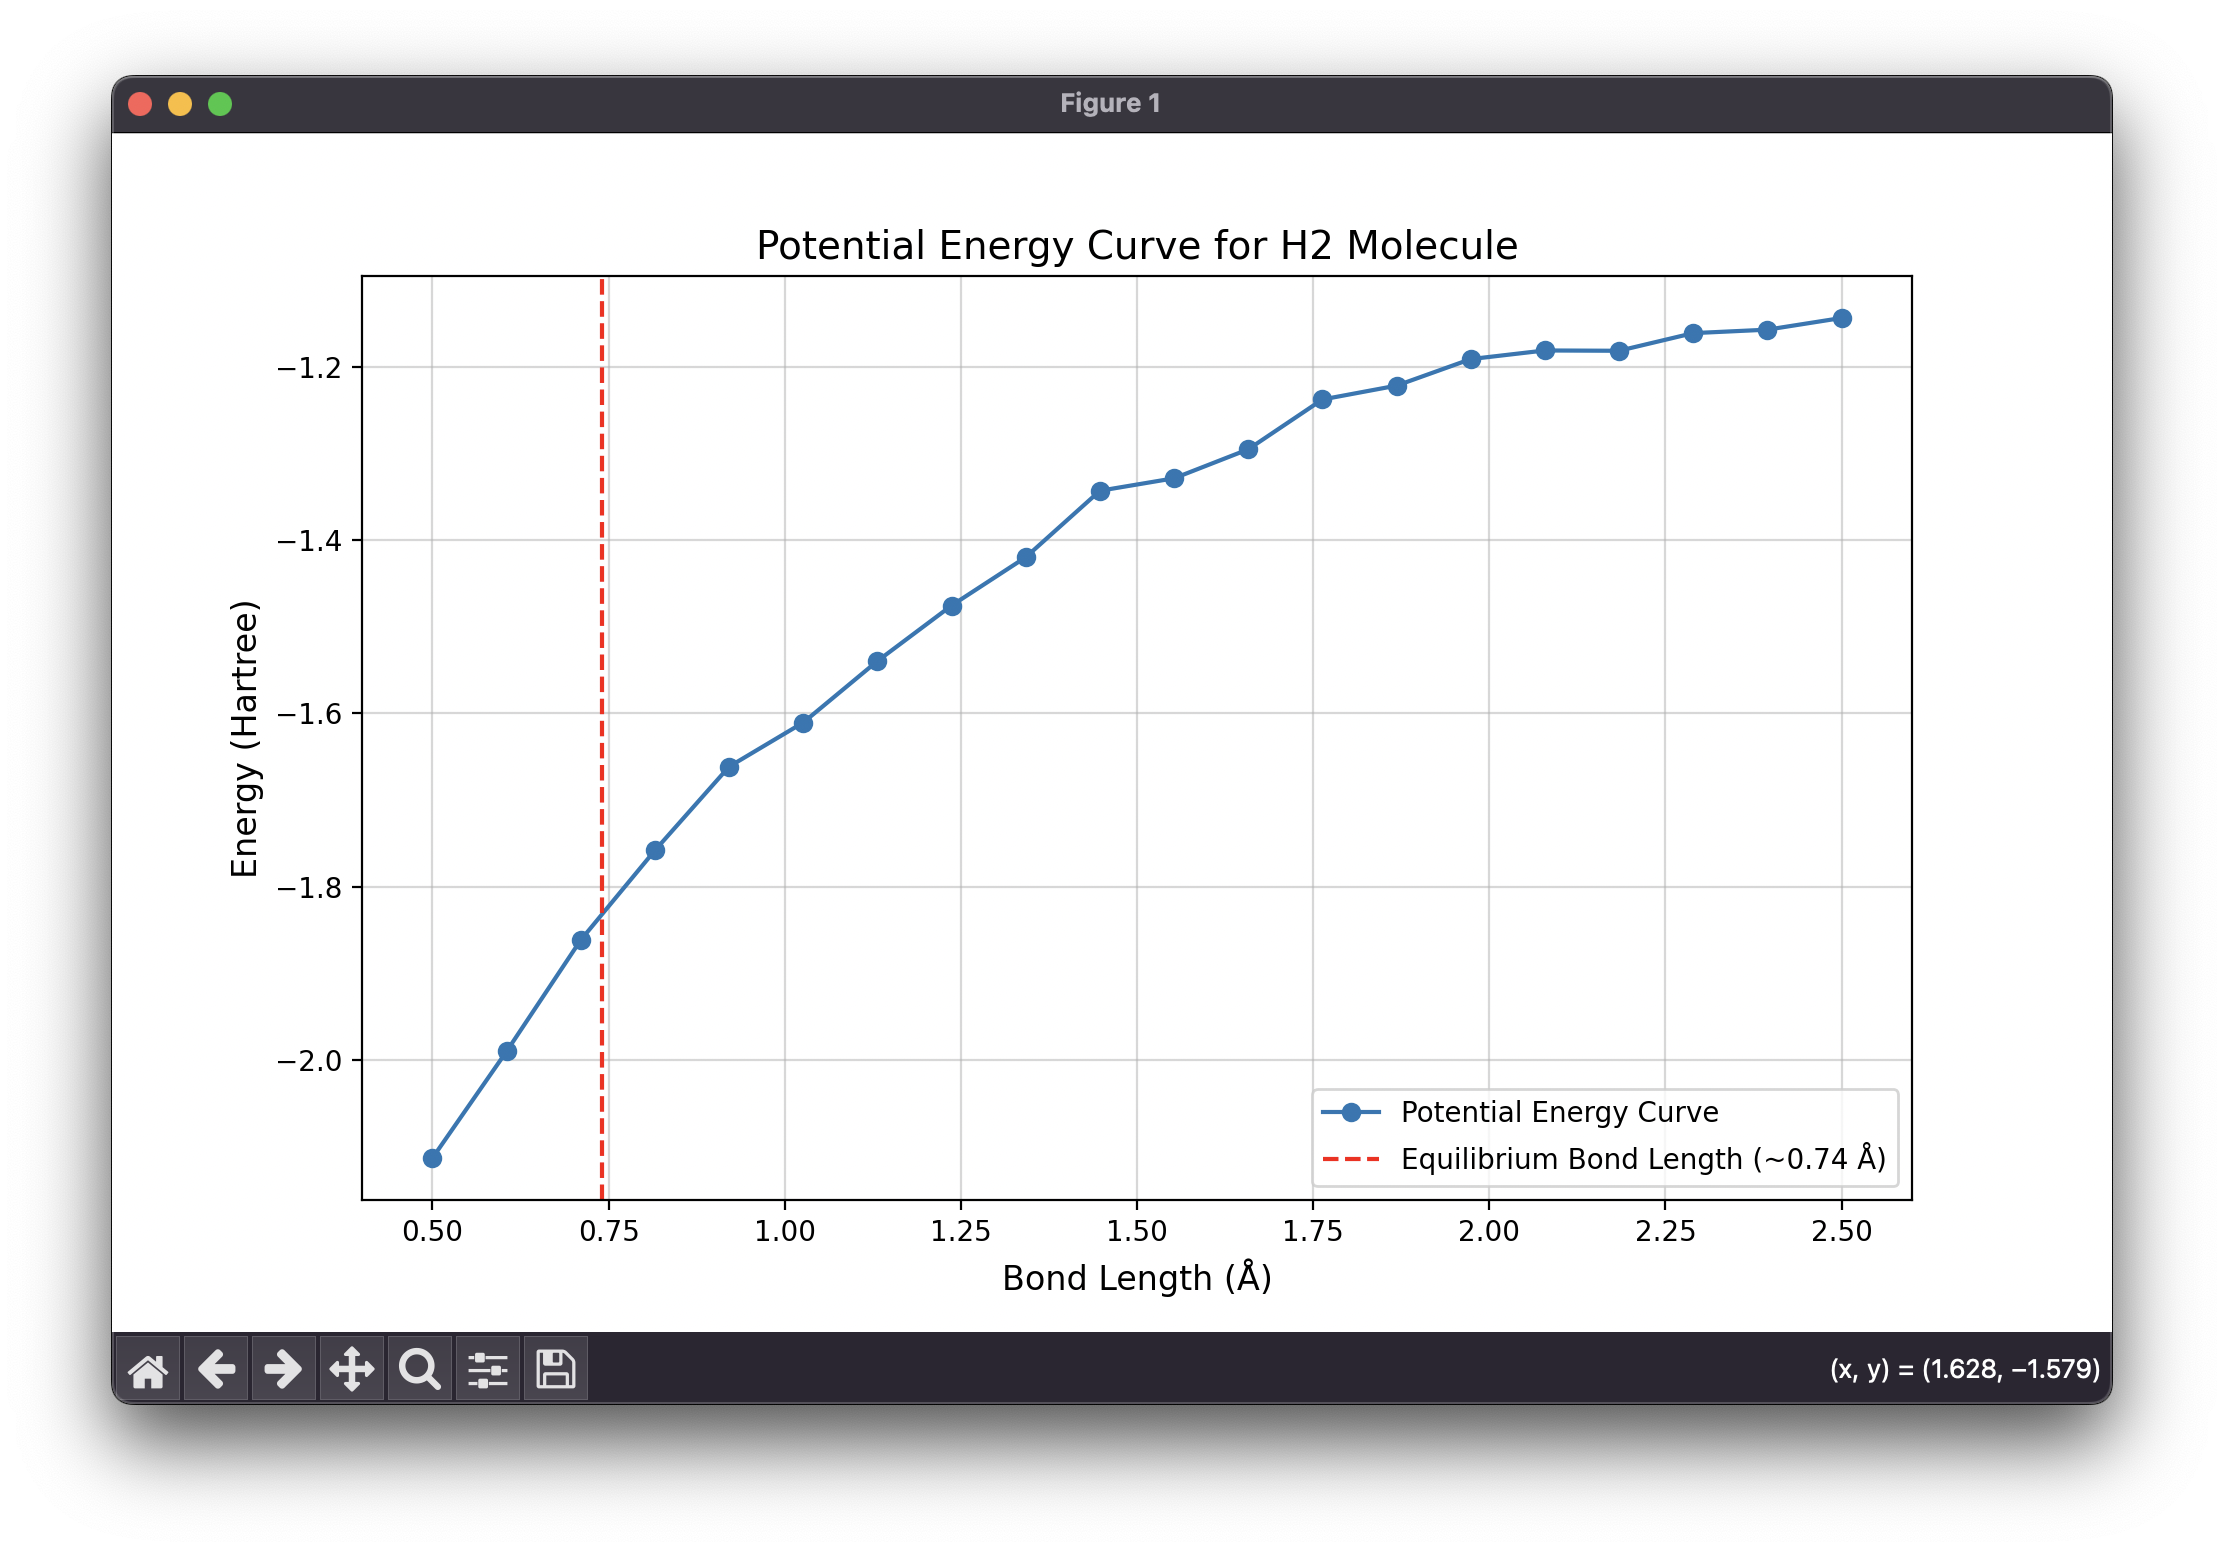
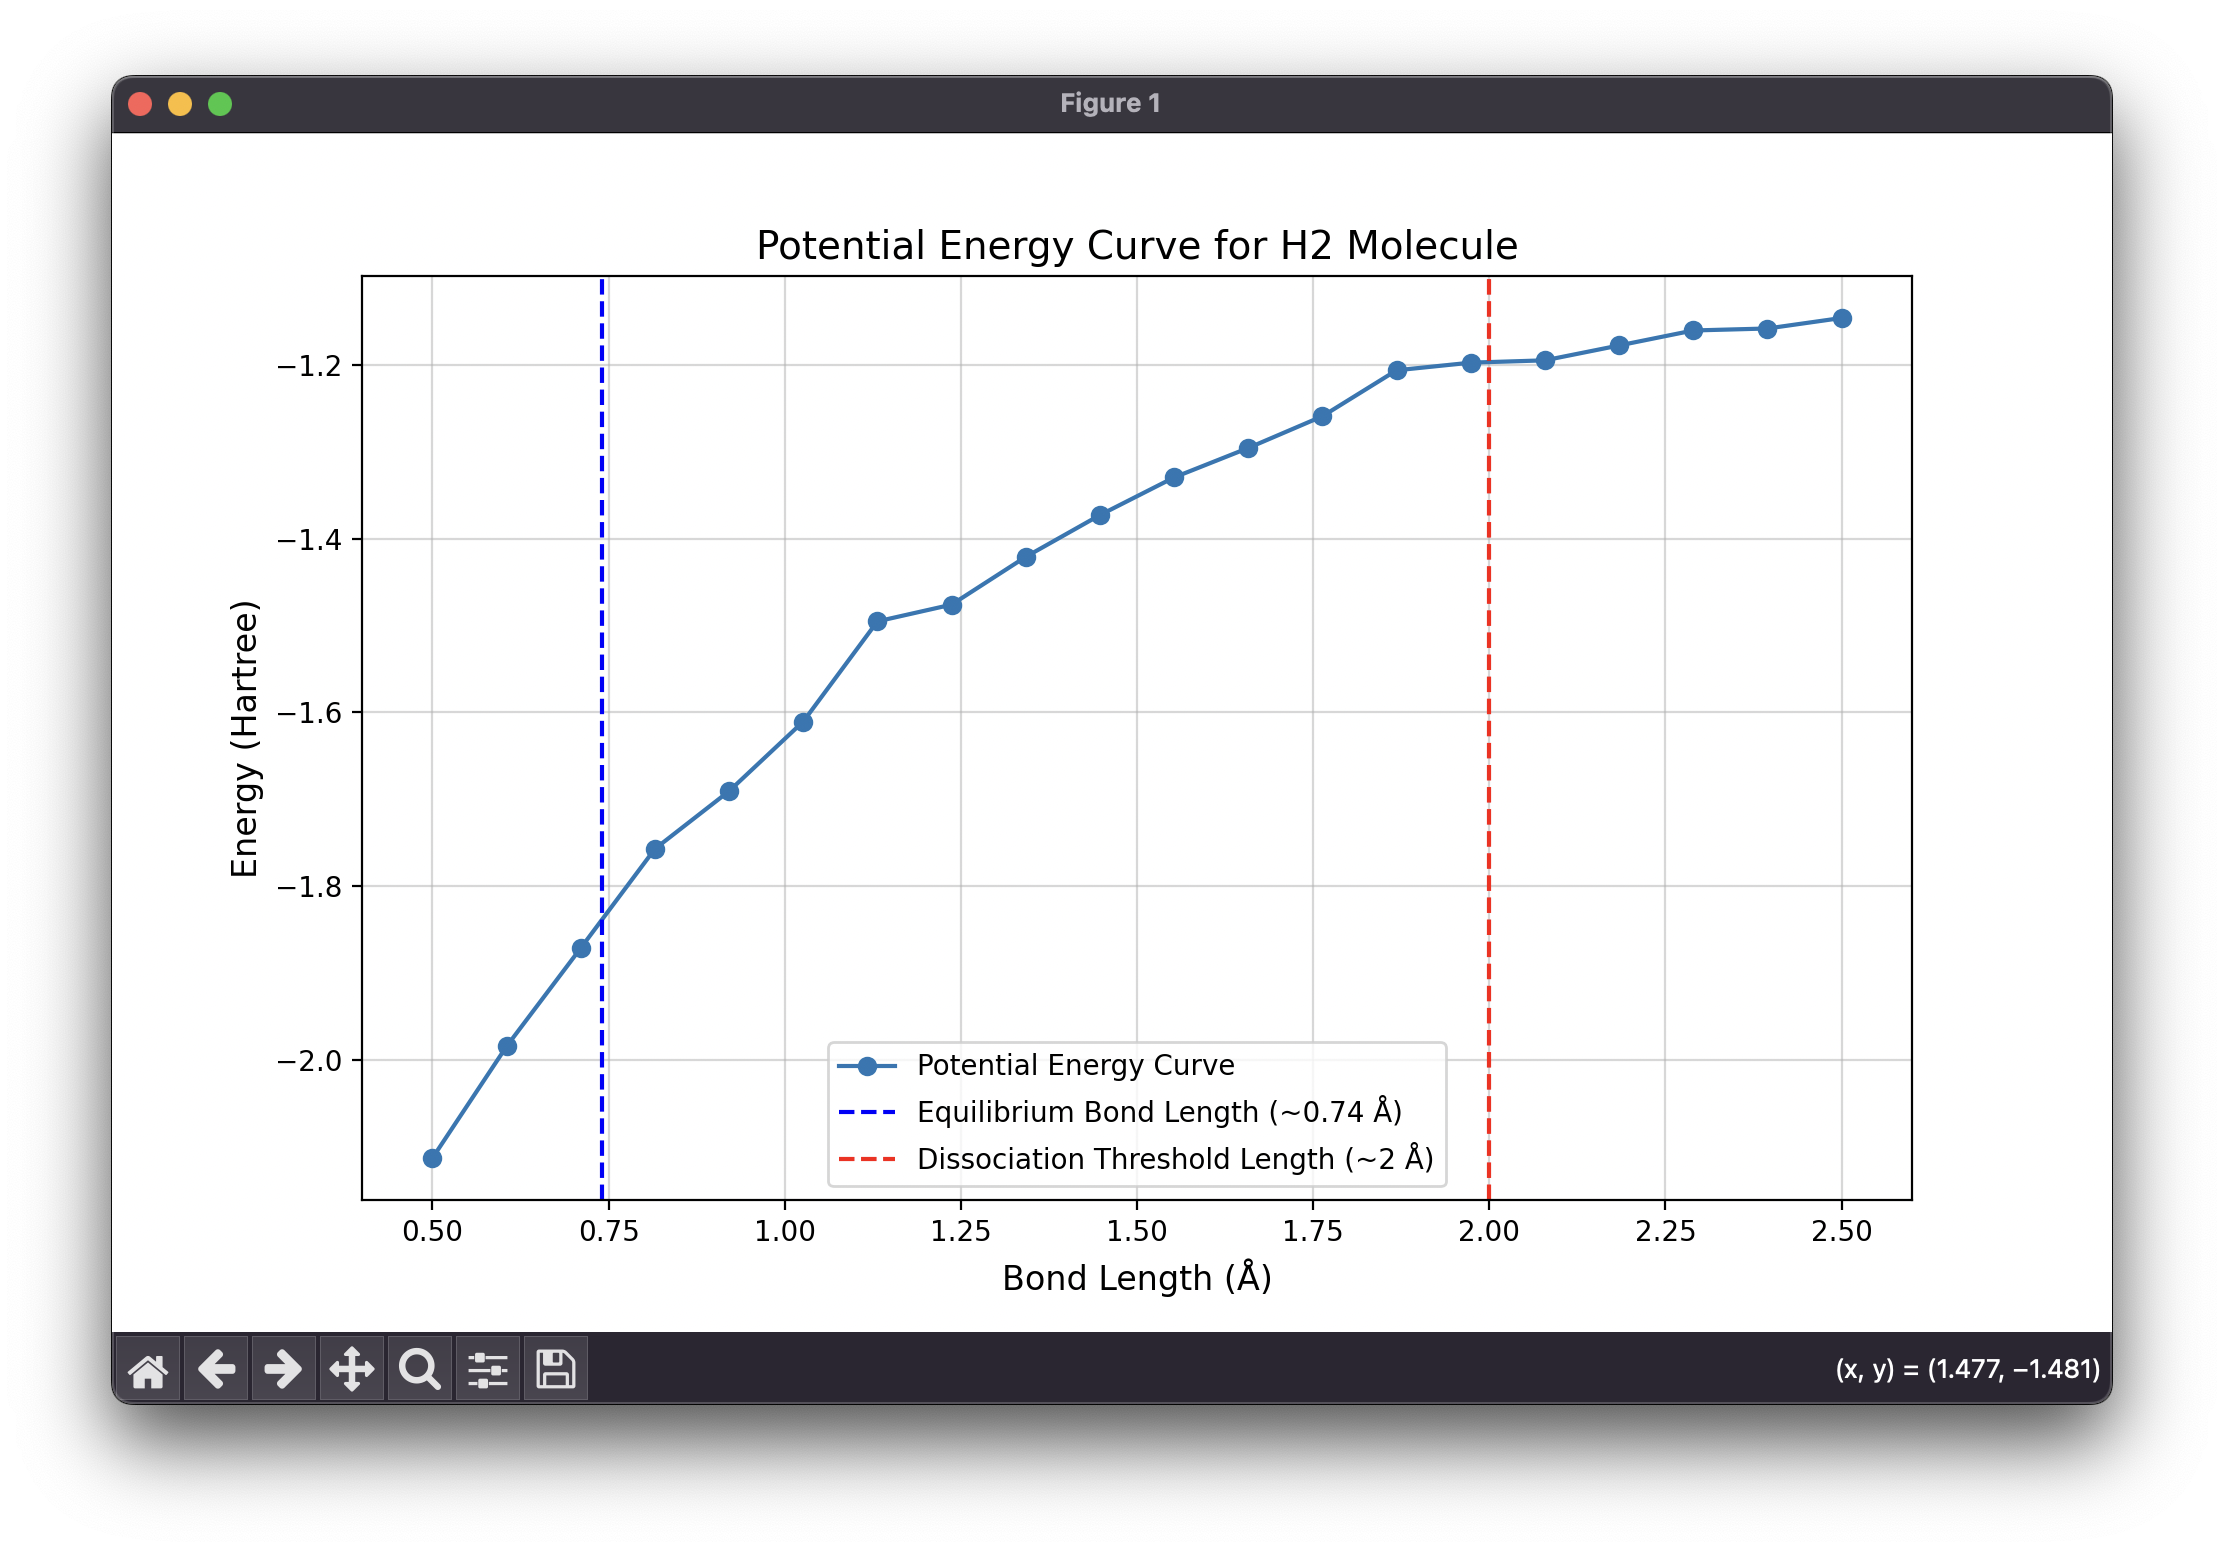
Add files via upload

diff --git a/main.py b/main.py
@@ -80,7 +80,8 @@ plt.plot(bond_lengths, energies, marker='o', linestyle='-', label="Potential Ene
 plt.title("Potential Energy Curve for H2 Molecule", fontsize=14) # 그래프 제목
 plt.xlabel("Bond Length (Å)", fontsize=12) # X축: 결합 길이
 plt.ylabel("Energy (Hartree)", fontsize=12) # Y축: 에너지
-plt.axvline(x=cfg.H2_ANGSTROM, color='r', linestyle='--', label=f"Equilibrium Bond Length (~{cfg.H2_ANGSTROM} Å)")
+plt.axvline(x=cfg.H2_EBL_ANGSTROM, color='b', linestyle='--', label=f"Equilibrium Bond Length (~{cfg.H2_EBL_ANGSTROM} Å)")
+plt.axvline(x=cfg.H2_DTL_ANGSTROM, color='r', linestyle='--', label=f"Dissociation Threshold Length (~{cfg.H2_DTL_ANGSTROM} Å)")
 plt.legend() # 범례 추가
 plt.grid(alpha=0.5) # 그래프 그리드 추가 (가시성 개선)
 plt.show() # 전위 에너지 곡선 그래프 표시

diff --git a/config.py b/config.py
@@ -1,5 +1,6 @@
 EXE_BACKEND = "Local" # IBM: IBM Quantum 하드웨어
-H2_ANGSTROM = 0.74 # 산소 분자의 평형 결합 거리(equilibrium bond length): 에너지가 최소화되는 가장 안정한 결합 길이 (단위: Å)
+H2_EBL_ANGSTROM = 0.74 # 산소 분자의 평형 결합 거리(equilibrium bond length): 에너지가 최소화되는 가장 안정한 결합 길이 (단위: Å)
+H2_DTL_ANGSTROM = 2 # 산소 분자의 해리 임계 거리(dissociation threshold length): 산소 분자 내 공유 결합이 끊어져 원자 단위로 분리되는 임계점 (단위: Å)
 BOND_MIN = 0.5 # 결합 길이의 최소값 (단위: Å)
 BOND_MAX = 2.5 # 결합 길이의 최대값 (단위: Å)
 BOND_COUNT = 20 # 결합 길이의 분할 갯수
